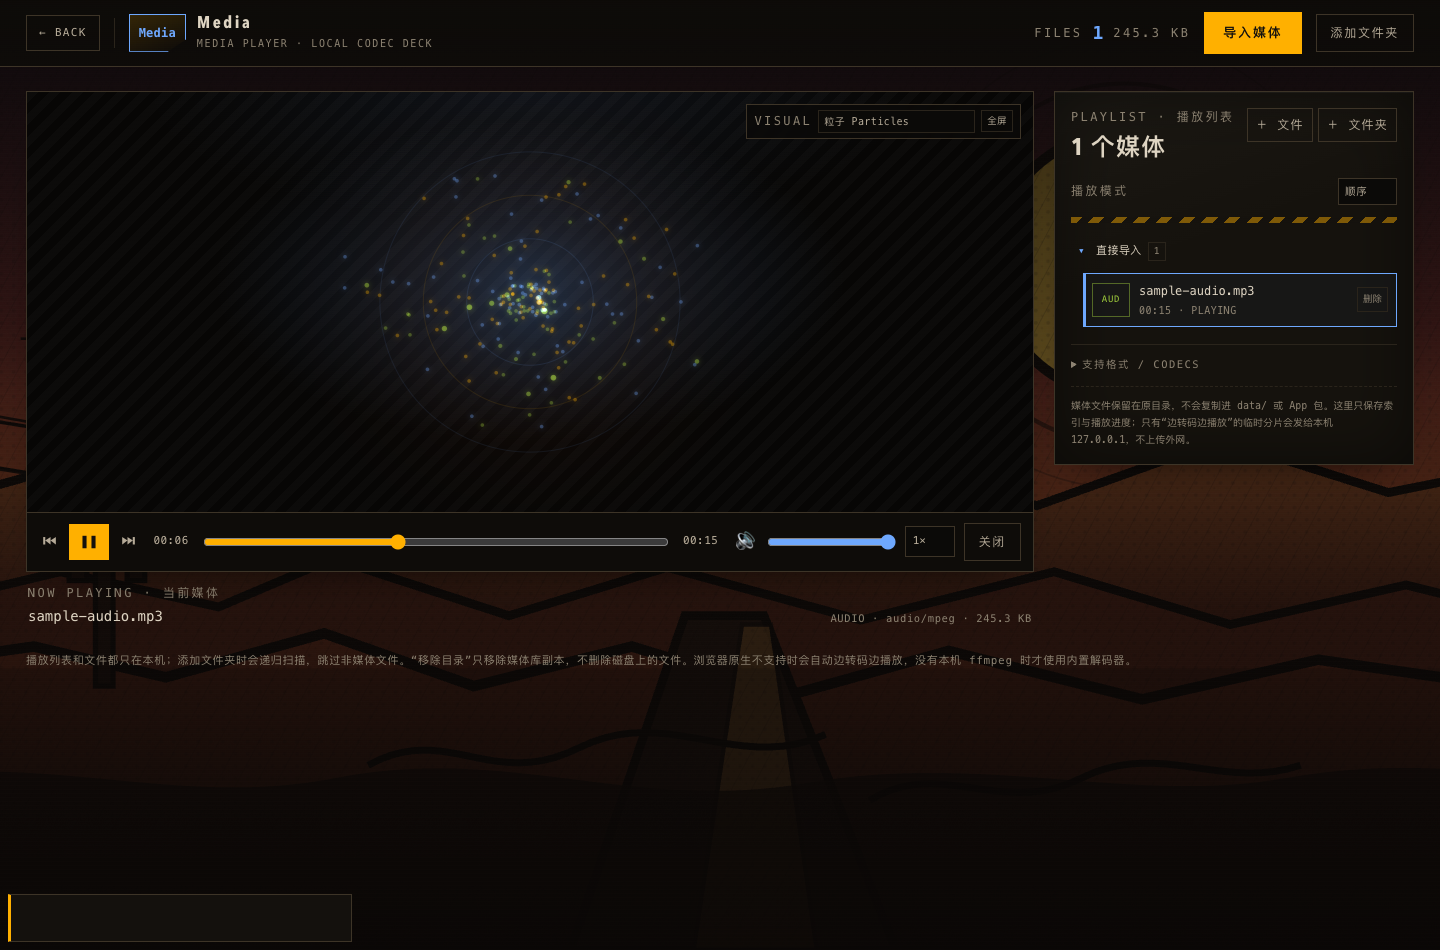
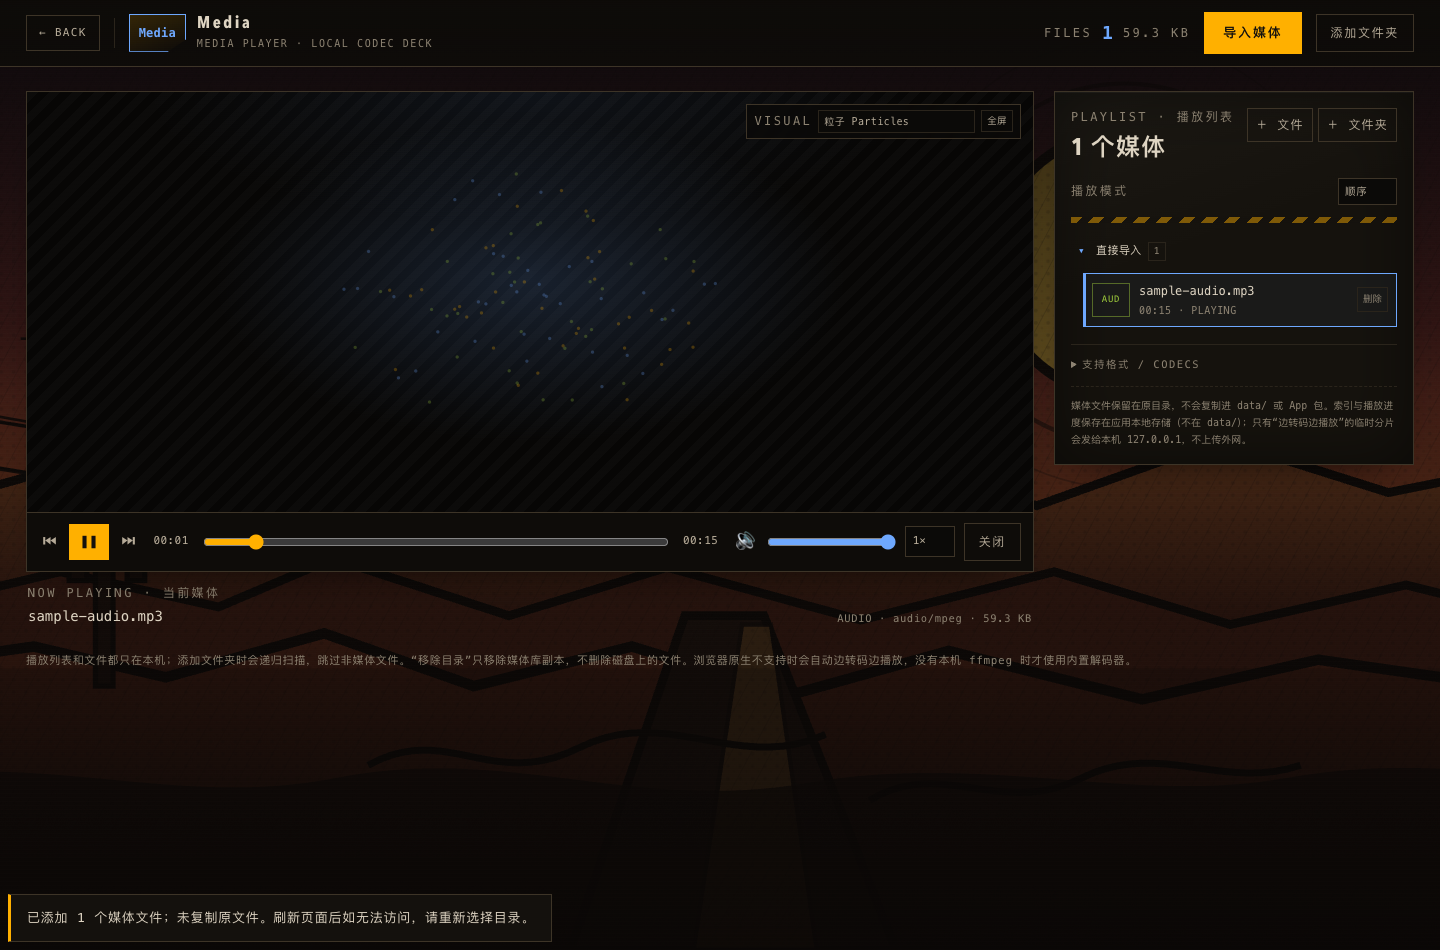
Release 1.0.4: roll back particle visualizer for performance

diff --git a/src/plugins/media-player/MediaPlayerPlugin.vue b/src/plugins/media-player/MediaPlayerPlugin.vue
@@ -257,14 +257,12 @@ let visualPhase = 0;
 let freqData = new Uint8Array(1024);
 let waveData = new Uint8Array(2048);
 
-const particles = Array.from({ length: 220 }, () => ({
+const particles = Array.from({ length: 110 }, () => ({
   angle: Math.random() * Math.PI * 2,
-  radius: 14 + Math.random() * 280,
-  speed: 0.35 + Math.random() * 1.35,
-  spin: (Math.random() - 0.5) * 0.018,
+  radius: 24 + Math.random() * 180,
+  speed: 0.25 + Math.random() * 0.9,
+  spin: (Math.random() - 0.5) * 0.012,
   band: Math.random(),
-  prevX: null,
-  prevY: null,
 }));
 
 function ensureAudioGraph() {
@@ -503,62 +501,27 @@ function drawVisual() {
   if (visualMode.value === "particles") {
     const cx = width / 2;
     const cy = height / 2;
-    const maxR = Math.min(width, height) * 0.47;
+    const maxR = Math.min(width, height) * 0.45;
     const bass = freq.slice(0, 18).reduce((sum, value) => sum + value, 0) / 18 / 255;
     const mid = freq.slice(18, 90).reduce((sum, value) => sum + value, 0) / 72 / 255;
-    const treble = freq.slice(90, 220).reduce((sum, value) => sum + value, 0) / 130 / 255;
     ctx.save();
-    const glow = ctx.createRadialGradient(cx, cy, 0, cx, cy, maxR * 1.35);
-    glow.addColorStop(0, "rgba(110, 168, 254, " + (0.05 + bass * 0.16) + ")");
-    glow.addColorStop(0.5, "rgba(194, 84, 42, " + (0.025 + mid * 0.06) + ")");
-    glow.addColorStop(1, "rgba(7, 6, 5, 0)");
-    ctx.fillStyle = glow;
-    ctx.fillRect(0, 0, width, height);
-    ctx.globalCompositeOperation = "lighter";
     for (const particle of particles) {
       const value = freq[Math.floor(particle.band * freq.length)] / 255;
-      particle.radius += particle.speed * (0.35 + value * 4.2 + bass * 1.4);
-      particle.angle += particle.spin + 0.002 * (1 + mid) + treble * 0.002;
+      particle.radius += particle.speed * (0.3 + value * 2.8);
+      particle.angle += particle.spin + 0.002 * (1 + mid);
       if (particle.radius > maxR) {
-        particle.radius = 8 + Math.random() * 22;
+        particle.radius = 10 + Math.random() * 20;
         particle.angle = Math.random() * Math.PI * 2;
         particle.band = Math.random();
-        particle.prevX = null;
-        particle.prevY = null;
       }
       const x = cx + Math.cos(particle.angle) * particle.radius;
-      const y = cy + Math.sin(particle.angle) * particle.radius * 0.68;
-      const size = 1 + value * 3.4 + bass * 2.4;
-      const color = particle.band > 0.68 ? amber : particle.band > 0.34 ? blue : tox;
-      if (particle.prevX !== null) {
-        ctx.globalAlpha = 0.05 + value * 0.34;
-        ctx.strokeStyle = color;
-        ctx.lineWidth = Math.max(0.6, size * 0.55);
-        ctx.beginPath();
-        ctx.moveTo(particle.prevX, particle.prevY);
-        ctx.lineTo(x, y);
-        ctx.stroke();
-      }
-      ctx.globalAlpha = 0.3 + value * 0.7;
-      ctx.fillStyle = color;
-      ctx.shadowColor = color;
-      ctx.shadowBlur = 8 + bass * 10;
+      const y = cy + Math.sin(particle.angle) * particle.radius * 0.72;
+      const size = 1 + value * 3 + bass * 2;
+      ctx.globalAlpha = 0.25 + value * 0.75;
+      ctx.fillStyle = particle.band > 0.6 ? amber : particle.band > 0.3 ? blue : tox;
       ctx.beginPath();
       ctx.arc(x, y, size, 0, Math.PI * 2);
       ctx.fill();
-      particle.prevX = x;
-      particle.prevY = y;
-    }
-    ctx.shadowBlur = 0;
-    ctx.globalCompositeOperation = "source-over";
-    for (let ring = 0; ring < 3; ring += 1) {
-      const radius = maxR * (0.28 + ring * 0.22) + bass * maxR * 0.12;
-      ctx.globalAlpha = 0.06 + bass * 0.14 - ring * 0.012;
-      ctx.strokeStyle = ring === 1 ? amber : blue;
-      ctx.lineWidth = 1;
-      ctx.beginPath();
-      ctx.arc(cx, cy, radius, 0, Math.PI * 2);
-      ctx.stroke();
     }
     ctx.restore();
     return;

diff --git a/README.md b/README.md
@@ -2,7 +2,7 @@
 
 <p align="center"><img src="src/assets/logo-wordmark.png" alt="Wasteland Archive logo" width="440" /></p>
 
-**Version 1.0.3** · [Changelog](CHANGELOG.md)
+**Version 1.0.4** · [Changelog](CHANGELOG.md)
 
 **Wasteland Archive** is an offline-first, local reading terminal for magazines, PDFs, image folders and local media. The shell only opens the door: every collection is a plugin, and every plugin owns its own data.
 
@@ -63,7 +63,7 @@ Sample: [sample-15s.mp4](https://samplelib.com/mp4/sample-15s.mp4) from sampleli
 
 ### Particle visualizer
 
-The particle field reacts to the live low / mid / high frequency bands, with 220 particles, motion trails, a frequency-driven glow and animated rings. **Full screen** hides all chrome; move the pointer near the bottom to fade in file info, play state and progress, or near the top to reveal the exit button and visual selector.
+The particle field reacts to the live low / mid / high frequency bands with a lightweight 110-particle renderer. **Full screen** hides all chrome; move the pointer near the bottom to fade in file info, play state and progress, or near the top to reveal the exit button and visual selector.
 
 Example: local audiobook chapter `book1_chapter01.mp3`.
 
@@ -125,7 +125,7 @@ Useful commands:
 | `make bootstrap` | Environment check/install only |
 | `make status` | Process + login status |
 | `make down` | Stop the server |
-| `make package` | Portable web package → `release/wasteland-archive-1.0.3.tar.gz` |
+| `make package` | Portable web package → `release/wasteland-archive-1.0.4.tar.gz` |
 | `make app` | Native macOS apps (arm64 + Intel x64) → `.app` + zip + dmg |
 | `make app-win` | Windows x64 portable app → `Wasteland-Archive-win-x64.zip` |
 
@@ -138,10 +138,10 @@ make app
 Outputs (Apple Silicon + Intel):
 
 ```text
-release/native/Wasteland-Archive-mac-arm64-1.0.3.dmg
-release/native/Wasteland-Archive-mac-arm64-1.0.3.zip
-release/native/Wasteland-Archive-mac-x64-1.0.3.dmg
-release/native/Wasteland-Archive-mac-x64-1.0.3.zip
+release/native/Wasteland-Archive-mac-arm64-1.0.4.dmg
+release/native/Wasteland-Archive-mac-arm64-1.0.4.zip
+release/native/Wasteland-Archive-mac-x64-1.0.4.dmg
+release/native/Wasteland-Archive-mac-x64-1.0.4.zip
 ```
 
 Both DMGs contain the app plus an **Applications shortcut**. Open the DMG and drag **废土馆藏.app** onto Applications. The app bundles Node, Chromium, `ffmpeg-static` and Playwright headless Chromium. It starts its own internal server on the stable port **5278** and stops it when the app quits.
@@ -162,7 +162,7 @@ make app-win
 Output:
 
 ```text
-release/native/Wasteland-Archive-win-x64-1.0.3.zip
+release/native/Wasteland-Archive-win-x64-1.0.4.zip
 ```
 
 Unzip it on Windows 10/11 x64 and run **废土馆藏.exe**. This is a portable build — no installer, no Node installation. It bundles Windows Electron, ffmpeg and Playwright headless Chromium.

diff --git a/langs/README.zh-CN.md b/langs/README.zh-CN.md
@@ -2,7 +2,7 @@
 
 <p align="center"><img src="../src/assets/logo-wordmark.png" alt="废土馆藏 Logo" width="440" /></p>
 
-**版本 1.0.3** · [更新日志](../CHANGELOG.md)
+**版本 1.0.4** · [更新日志](../CHANGELOG.md)
 
 **废土馆藏** 是一个离线优先的本地阅读终端，用来管理杂志档案、PDF、图片文件夹与本地媒体。主程序只负责开门，所有馆藏都是插件，数据归插件自己管理。
 
@@ -63,7 +63,7 @@
 
 ### 粒子可视化
 
-粒子会随实时低 / 中 / 高频段爆开、流动，使用 220 个粒子、运动拖尾、随频率变化的辉光和动态圆环。**全屏** 后会隐藏所有控制；鼠标靠近底部时淡入文件信息、播放状态与进度，靠近顶部时显示退出按钮和可视化选择。
+粒子会随实时低 / 中 / 高频段爆开、流动，使用轻量的 110 粒子渲染。**全屏** 后会隐藏所有控制；鼠标靠近底部时淡入文件信息、播放状态与进度，靠近顶部时显示退出按钮和可视化选择。
 
 示例：本地有声书章节 book1_chapter01.mp3。
 
@@ -127,7 +127,7 @@ make up 会运行 scripts/bootstrap.sh：
 | make bootstrap | 只检测/安装环境 |
 | make status | 查看进程 + 登录状态 |
 | make down | 停止服务 |
-| make package | 生成 Web 便携包 release/wasteland-archive-1.0.3.tar.gz |
+| make package | 生成 Web 便携包 release/wasteland-archive-1.0.4.tar.gz |
 | make app | 生成 macOS 原生 App（arm64 + Intel x64）+ zip + dmg |
 | make app-win | 生成 Windows x64 便携包 Wasteland-Archive-win-x64.zip |
 
@@ -140,10 +140,10 @@ make app
 输出（Apple Silicon + Intel）：
 
 ~~~text
-release/native/Wasteland-Archive-mac-arm64-1.0.3.dmg
-release/native/Wasteland-Archive-mac-arm64-1.0.3.zip
-release/native/Wasteland-Archive-mac-x64-1.0.3.dmg
-release/native/Wasteland-Archive-mac-x64-1.0.3.zip
+release/native/Wasteland-Archive-mac-arm64-1.0.4.dmg
+release/native/Wasteland-Archive-mac-arm64-1.0.4.zip
+release/native/Wasteland-Archive-mac-x64-1.0.4.dmg
+release/native/Wasteland-Archive-mac-x64-1.0.4.zip
 ~~~
 
 两个 DMG 都包含 App 和 **Applications 快捷方式**。打开 DMG，把 **废土馆藏.app** 拖到 Applications 上。App 内置 Node、Chromium、ffmpeg-static 和 Playwright headless Chromium，使用固定的内部端口 **5278**，退出时自动停止服务。
@@ -164,7 +164,7 @@ make app-win
 输出：
 
 ~~~text
-release/native/Wasteland-Archive-win-x64-1.0.3.zip
+release/native/Wasteland-Archive-win-x64-1.0.4.zip
 ~~~
 
 在 Windows 10/11 x64 上解压，运行 **废土馆藏.exe** 即可。这是便携版，不需要安装 Node，也不需要单独启动 server；包内包含 Windows Electron、ffmpeg 和 Playwright headless Chromium。

diff --git a/CHANGELOG.md b/CHANGELOG.md
@@ -2,6 +2,12 @@
 
 All notable changes to Wasteland Archive are documented here.
 
+## [1.0.4] — 2026-11-08
+
+### Fixed
+
+- Rolled the particle visualizer back to the lightweight 110-particle implementation for smooth playback; the fullscreen control chrome remains.
+
 ## [1.0.3] — 2026-11-08
 
 ### Added
